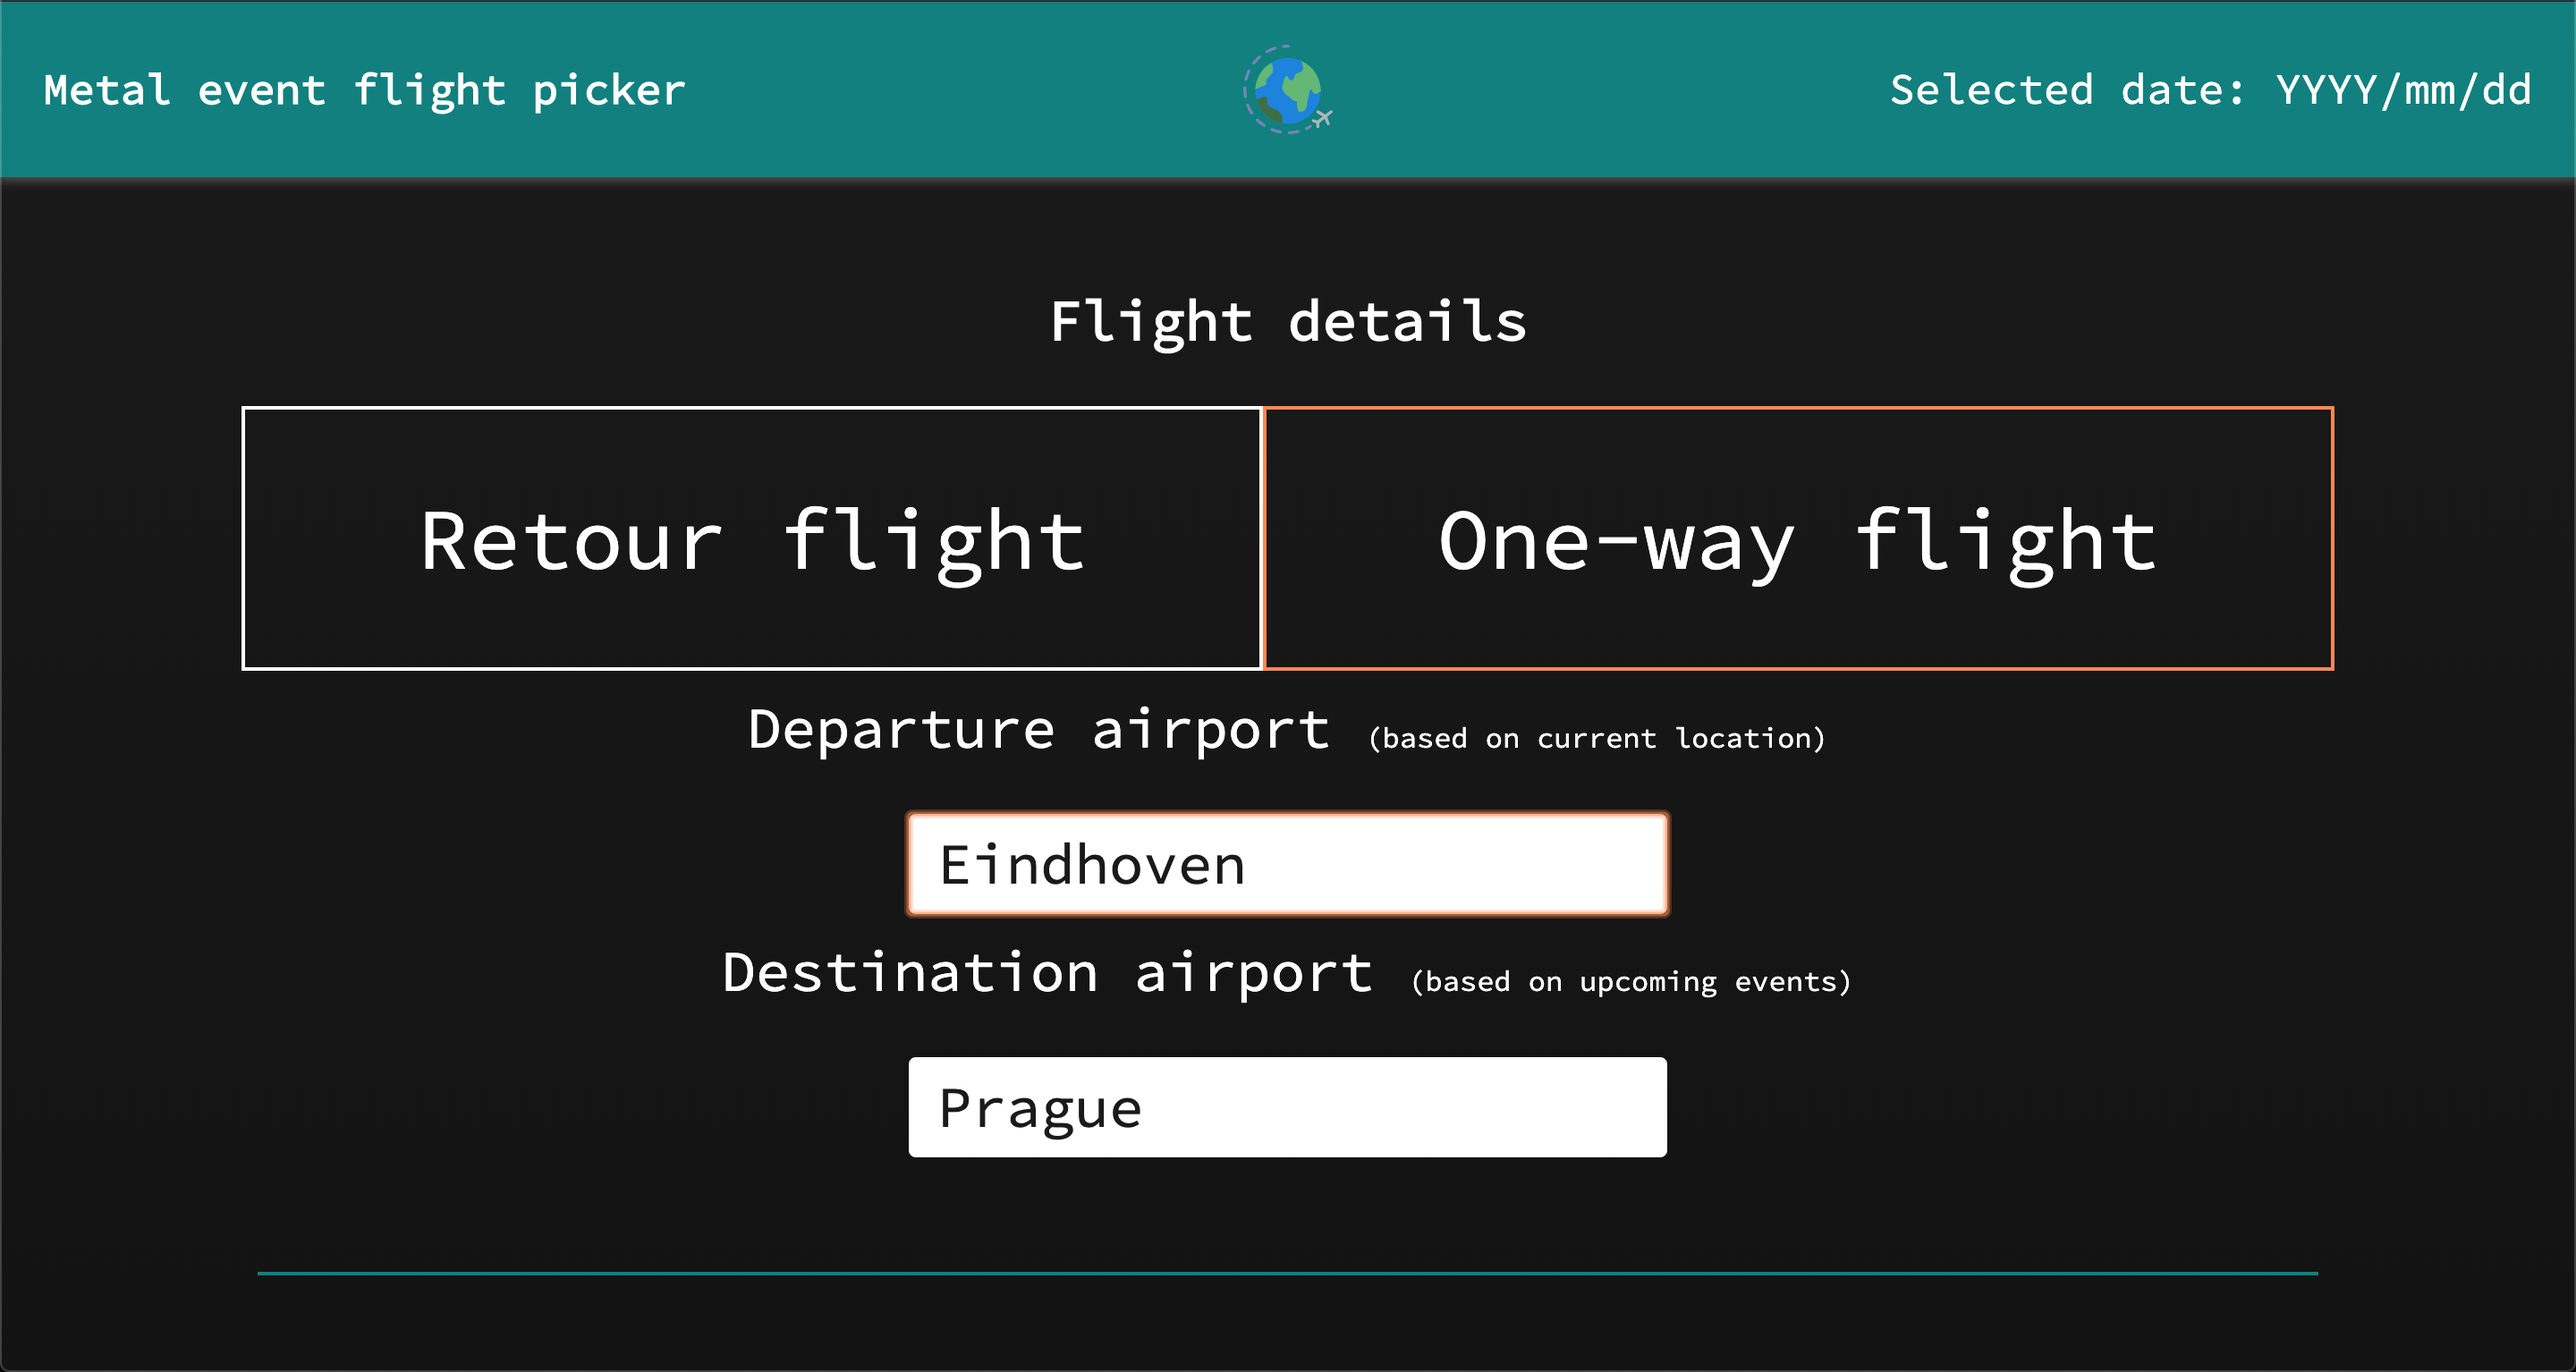
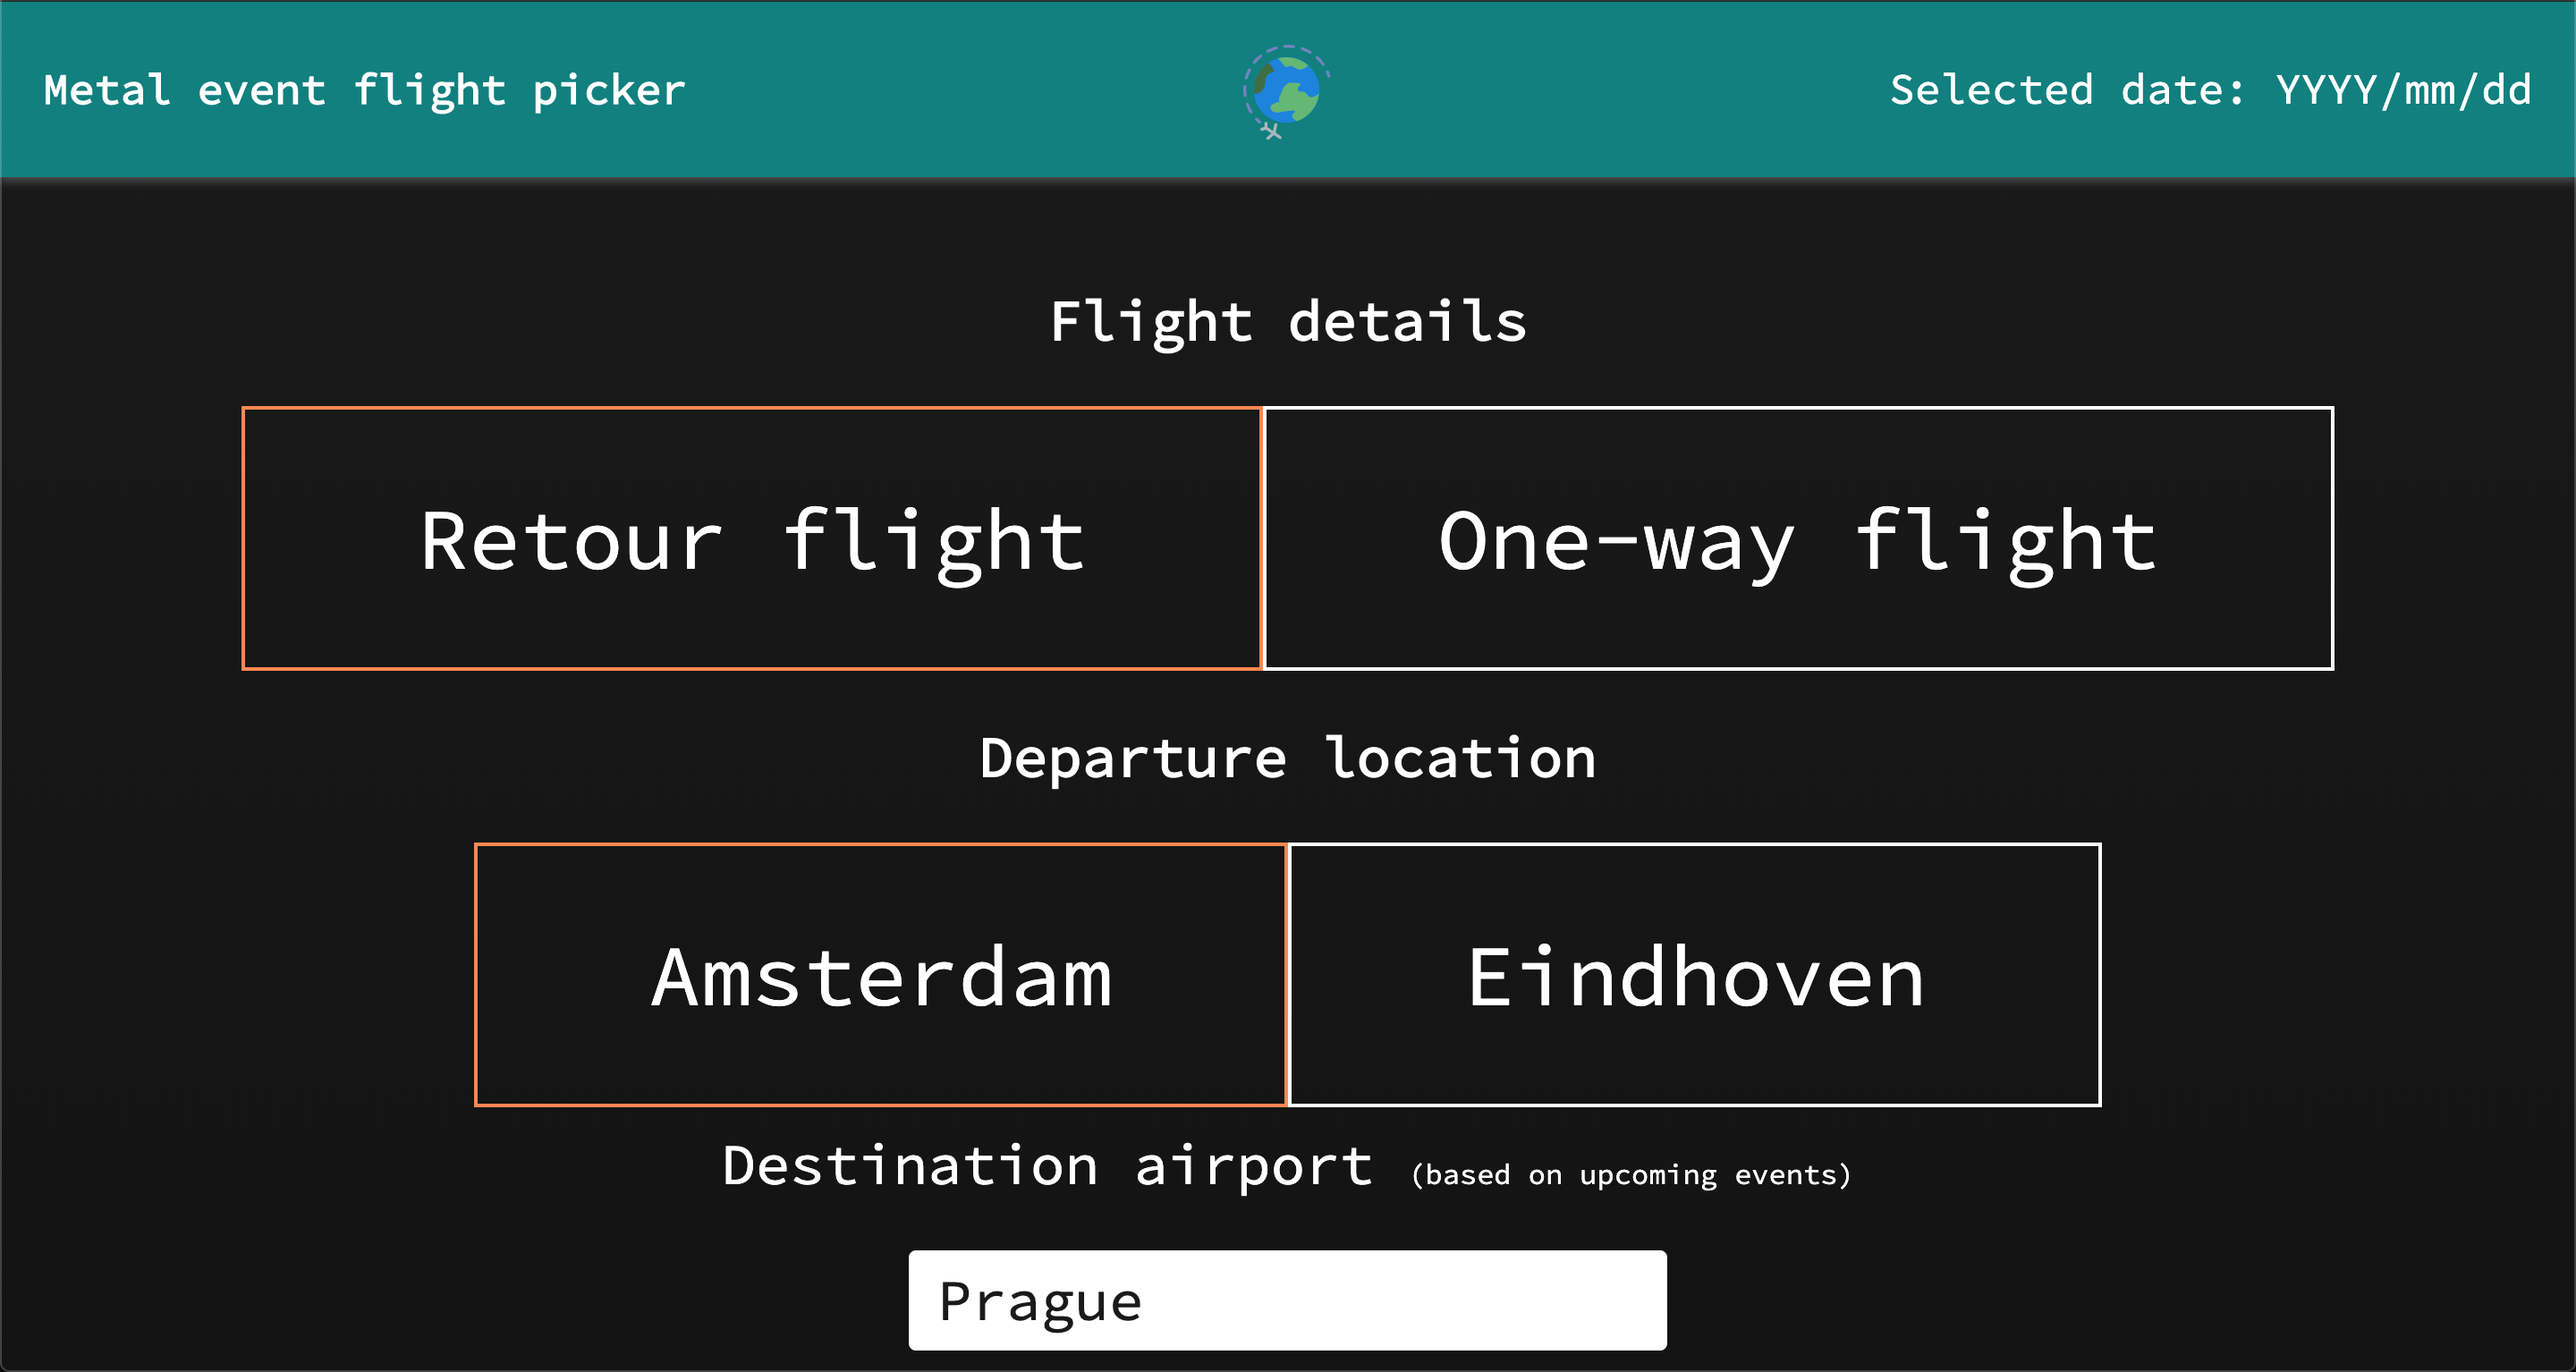
feat(style):update style

diff --git a/index.html b/index.html
@@ -48,10 +48,19 @@
                     <input name="type-of-flight" value="one-way" id="type-of-flight-one-way" type="radio">
                 </label>
             </div>
-            <label class="mt-1 Field">
-                <span class="Field__title">Departure airport <small>(based on current location)</small></span>
-                <input type="text" name="departure-airport" id="departure-airport" class="Field__input" placeholder="Eindhoven" value="Eindhoven">
-            </label>
+            <div class="mt-2">
+                <h3>Departure location</h3>
+                <div class="Row mt-2">
+                    <label for="departure-location-amsterdam" class="Switch Switch--selected">
+                        Amsterdam
+                        <input name="departure-location" value="amsterdam" id="departure-location-amsterdam" type="radio" checked>
+                    </label>
+                    <label for="departure-location-eindhoven" class="Switch">
+                        Eindhoven
+                        <input name="departure-location" value="eindhoven" id="departure-location-eindhoven" type="radio">
+                    </label>
+                </div>
+            </div>
             <label class="mt-1 Field">
                 <span class="Field__title">Destination airport <small>(based on upcoming events)</small></span>
                 <input type="text" name="destination-airport" id="destination-airport" class="Field__input" placeholder="Prague" value="Prague">

diff --git a/src/scripts/events/departureEvents.js b/src/scripts/events/departureEvents.js
@@ -1,0 +1,41 @@
+import { eventKeys } from './eventKeys'
+
+export function setupDepartureEvents(state) {
+    const departureLocations = document.querySelectorAll('[name=departure-location]')
+
+    if (departureLocations && departureLocations.length > 0) {
+        departureLocations.forEach(option => {
+            option.addEventListener('click', onSelectOption(departureLocations))
+            option.addEventListener('focus', onFocusOnOption)
+        })
+    }
+
+    function onFocusOnOption({ target }) {
+        if (target) {
+            target.addEventListener('keydown', ({ key }) => {
+                if (key === 'ArrowRight' || key === 'ArrowLeft') {
+                    return
+                }
+
+                if (eventKeys.includes(key)) {
+                    target.click()
+                }
+            })
+        }
+    }
+
+    function onSelectOption(departureLocations) {
+        return function (event) {
+            event.preventDefault()
+            const { value } = event.target
+
+            state.set('departureAirport', value)
+
+            departureLocations.forEach(element => {
+                element.parentNode.classList.remove('Switch--selected')
+            })
+
+            event.target.parentNode.classList.add('Switch--selected')
+        }
+    }
+}

diff --git a/src/scripts/index.js b/src/scripts/index.js
@@ -5,12 +5,13 @@ import { setupMonthEvents } from './events/monthEvents'
 import { setupDayEvents } from './events/dayEvents'
 import { setupTypeOfFlightEvents } from './events/typeOfFlightEvents'
 import { setupAirportEvents } from './events/airportEvents'
+import { setupDepartureEvents } from './events/departureEvents'
 import anime from 'animejs'
 
 (() => {
     const state = new State({
         selectedTypeOfFlight: 'retour',
-        departureAirport: '',
+        departureAirport: 'Amsterdam',
         destinationAirport: '',
         selectedYear: new Date().getFullYear(),
         selectedMonth: new Date().getMonth(),
@@ -22,6 +23,7 @@ import anime from 'animejs'
     setupDayEvents(state)
     setupTypeOfFlightEvents(state)
     setupAirportEvents(state)
+    setupDepartureEvents(state)
 
     anime({
         targets: '#WorldGlobe',
